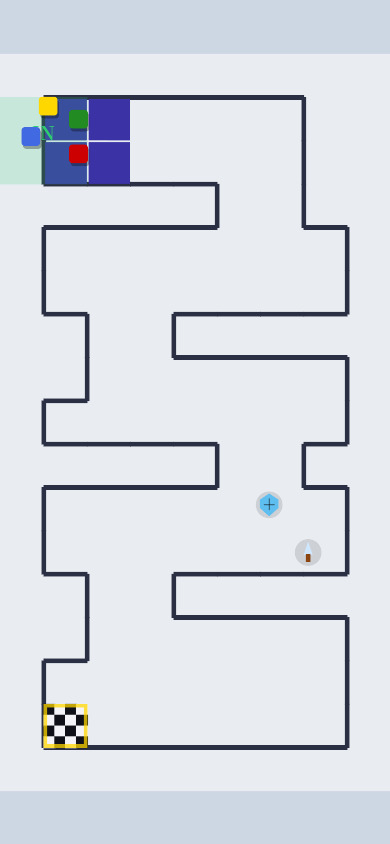
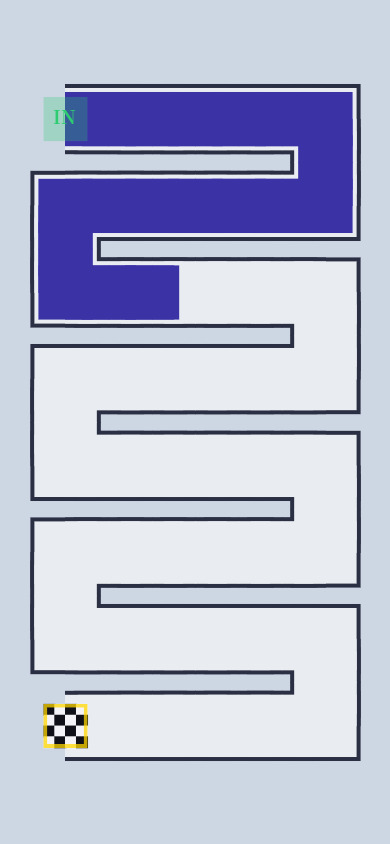
Render Stage 1 as a thick corridor with sharp corners and matching flood

diff --git a/www/game.js b/www/game.js
@@ -306,23 +306,23 @@
     // PERFECT SQUARES (size = screenWidth/9) and the maze is taller now so it
     // fills most of the portrait screen; any leftover space is the centered,
     // background-colored letterbox. All 5 are validated single-path (S->E).
-    // 1 — thicker lanes with 2x2 turn connectors and no brick gates for now (9x17)
+    // 1 — horizontal serpentine (9x17)
     [
       '#########',
-      '#S.....##',
-      '#......##',
-      '#####..##',
+      '#S......#',
+      '#######.#',
       '#.......#',
+      '#.#######',
       '#.......#',
-      '##..#####',
-      '##......#',
+      '#######.#',
       '#.......#',
-      '#####..##',
+      '#.#######',
       '#.......#',
+      '#######.#',
       '#.......#',
-      '##..#####',
-      '##......#',
+      '#.#######',
       '#.......#',
+      '#######.#',
       '#E......#',
       '#########'
     ],
@@ -611,7 +611,6 @@
 
   function resetBricks() {
     BRICKS = [];
-    if (STATE.stageIndex === 0) return; // Stage 1: remove brick gates for now
     const path = MAZE.path;
     if (!path || path.length < 8) return;
     // Place bricks on interior path cells, evenly spaced, skipping cells near
@@ -697,7 +696,6 @@
         const nextAhead = MAZE.path[Math.min(aheadIdx + 1, MAZE.path.length - 1)];
         const ctr = cellCenter(ahead.c, ahead.r);
         sq.x = ctr.x; sq.y = ctr.y;
-        snapSquareToLaneBand(sq);
         // Re-aim along the corridor's forward direction but KEEP it a billiard
         // diagonal so it still bounces naturally (this is the wall shoving it,
         // not pathfinding — it only happens when the wall reaches the square).
@@ -715,15 +713,50 @@
 
   function drawFlood() {
     if (!MAZE.path.length) return;
+    const t = Date.now();
+
+    if (STATE.stageIndex === 0) {
+      const pts = stage1PathPoints();
+      if (!pts || pts.length < 2) return;
+      const laneW = MAZE.cellH * 1.42;
+      const floodW = Math.max(1, laneW - WALL_THICKNESS * 2);
+      const frac = FLOOD.progress - Math.floor(FLOOD.progress);
+      const upto = Math.min(MAZE.path.length - 1, FLOOD.front);
+      const segPts = [];
+      for (let i = 0; i <= upto; i++) segPts.push(pts[i]);
+      if (FLOOD.front < MAZE.path.length && pts[FLOOD.front]) {
+        const a = pts[FLOOD.front];
+        const b = pts[Math.min(FLOOD.front + 1, pts.length - 1)];
+        if (a && b) segPts.push({ x: a.x + (b.x - a.x) * frac, y: a.y + (b.y - a.y) * frac });
+      }
+      if (segPts.length >= 2) {
+        ctx.save();
+        ctx.lineCap = 'butt';
+        ctx.lineJoin = 'miter';
+        ctx.miterLimit = 2;
+        ctx.strokeStyle = FLOOD_COLOR;
+        ctx.lineWidth = floodW;
+        ctx.beginPath();
+        ctx.moveTo(segPts[0].x, segPts[0].y);
+        for (let i = 1; i < segPts.length; i++) ctx.lineTo(segPts[i].x, segPts[i].y);
+        ctx.stroke();
+
+        const pulse = 0.55 + 0.45 * Math.sin(t / 220);
+        const tail = segPts[segPts.length - 1];
+        ctx.globalCompositeOperation = 'lighter';
+        ctx.fillStyle = `rgba(140,130,255,${0.16 + 0.16 * pulse})`;
+        ctx.fillRect(tail.x - floodW * 0.18, tail.y - floodW * 0.18, floodW * 0.36, floodW * 0.36);
+        ctx.restore();
+      }
+      return;
+    }
+
     const w = MAZE.cellW, h = MAZE.cellH;
     const ox = MAZE.offX, oy = MAZE.offY;
-    const t = Date.now();
     const inset = WALL_THICKNESS * 0.5;
     const fw = Math.max(1, w - WALL_THICKNESS);
     const fh = Math.max(1, h - WALL_THICKNESS);
 
-    // One continuous solid strip inset inside the corridor so the maze outline
-    // remains visible and no internal cell separators appear inside the flood.
     ctx.fillStyle = FLOOD_COLOR;
     for (let i = 0; i < FLOOD.front; i++) {
       const cell = MAZE.path[i];
@@ -762,32 +795,6 @@
   // Visual-effect tuning.
   const SHIELD_FLASH_TIME = 0.5; // seconds for the blue shield ripple
 
-
-  function laneBandRows(r) {
-    if (STATE.stageIndex !== 0) return [r];
-    const grid = MAZE.grid || [];
-    if (r < 0 || r >= MAZE.rows) return [r];
-    if (!grid[r] || !grid[r].includes('.')) return [r];
-    const rows = [r];
-    if (r > 0 && grid[r - 1] && grid[r - 1].includes('.')) rows.push(r - 1);
-    if (r + 1 < MAZE.rows && grid[r + 1] && grid[r + 1].includes('.')) rows.push(r + 1);
-    return Array.from(new Set(rows)).sort((a, b) => a - b);
-  }
-
-  function laneBandCenterY(r) {
-    const rows = laneBandRows(r);
-    const ys = rows.map(rr => MAZE.offY + rr * MAZE.cellH + MAZE.cellH / 2);
-    return ys.reduce((a, b) => a + b, 0) / ys.length;
-  }
-
-  function snapSquareToLaneBand(sq) {
-    if (STATE.stageIndex !== 0) return;
-    const c = Math.floor((sq.x - MAZE.offX) / MAZE.cellW);
-    const r = Math.max(0, Math.min(MAZE.rows - 1, Math.floor((sq.y - MAZE.offY) / MAZE.cellH)));
-    if (r < 0 || r >= MAZE.rows || c < 0 || c >= MAZE.cols) return;
-    if (MAZE.grid[r][c] === '#') return;
-    sq.y = laneBandCenterY(r);
-  }
 
   /* =========================================================
    * PARTICLES (death explosion fragments)
@@ -912,7 +919,6 @@
       sq.y = Math.max(SQUARE_SIZE, Math.min(view.h - SQUARE_SIZE, sq.y));
       sq.vx = launch.x * sq.speed;
       sq.vy = launch.y * sq.speed;
-      snapSquareToLaneBand(sq);
       return sq;
     });
   }
@@ -944,7 +950,6 @@
       if (sq.finished) continue;
 
       moveAndBounce(sq, dt);
-      snapSquareToLaneBand(sq);
       // No self-rotation: squares do not spin on themselves. They move straight
       // and only change direction by reflecting off walls (handled above).
 
@@ -1311,6 +1316,47 @@
   /* =========================================================
    * MAZE RENDERING (fills the whole screen)
    * ========================================================= */
+
+
+  function stage1PathPoints() {
+    if (STATE.stageIndex !== 0 || !MAZE.path || !MAZE.path.length) return null;
+    return MAZE.path.map(cell => ({
+      x: MAZE.offX + cell.c * MAZE.cellW + MAZE.cellW / 2,
+      y: MAZE.offY + cell.r * MAZE.cellH + MAZE.cellH / 2
+    }));
+  }
+
+  function drawStage1VisualMaze(ctx) {
+    const pts = stage1PathPoints();
+    if (!pts || pts.length < 2) return false;
+    const laneW = MAZE.cellH * 1.42;
+    const border = WALL_THICKNESS;
+
+    ctx.save();
+    ctx.lineCap = 'butt';
+    ctx.lineJoin = 'miter';
+    ctx.miterLimit = 2;
+
+    // Outer dark border stroke
+    ctx.strokeStyle = WALL_COLOR;
+    ctx.lineWidth = laneW + border * 2;
+    ctx.beginPath();
+    ctx.moveTo(pts[0].x, pts[0].y);
+    for (let i = 1; i < pts.length; i++) ctx.lineTo(pts[i].x, pts[i].y);
+    ctx.stroke();
+
+    // Inner floor stroke
+    ctx.strokeStyle = FLOOR_COLOR;
+    ctx.lineWidth = laneW;
+    ctx.beginPath();
+    ctx.moveTo(pts[0].x, pts[0].y);
+    for (let i = 1; i < pts.length; i++) ctx.lineTo(pts[i].x, pts[i].y);
+    ctx.stroke();
+
+    ctx.restore();
+    return true;
+  }
+
   function drawMaze() {
     // 1) BACKGROUND: one solid flat color over the whole screen (this also fills
     //    the empty letterbox space above/below the centered square-cell maze).
@@ -1319,27 +1365,27 @@
 
     const mazeW = MAZE.cellW * MAZE.cols, mazeH = MAZE.cellH * MAZE.rows;
 
-    // 2) FLOOR: one solid flat color, covering ONLY the maze area. No checker,
-    //    no grid, no cell lines.
-    ctx.fillStyle = FLOOR_COLOR;
-    ctx.fillRect(MAZE.offX, MAZE.offY, mazeW, mazeH);
-
-    // 3) WALLS: draw ONLY thin outline segments around OPEN corridor cells.
-    //    This makes the maze read as mostly open floor with dark separators,
-    //    instead of visually suggesting that wall cells are filled blocks.
-    const T = 4;
-    const inset = T / 2;
-    const ox = MAZE.offX, oy = MAZE.offY, cw = MAZE.cellW, ch = MAZE.cellH;
-    const isOpenCell = (c, r) => r >= 0 && c >= 0 && r < MAZE.rows && c < MAZE.cols && MAZE.grid[r][c] !== '#';
-    ctx.fillStyle = WALL_COLOR;
-    for (let r = 0; r < MAZE.rows; r++) {
-      for (let c = 0; c < MAZE.cols; c++) {
-        if (!isOpenCell(c, r)) continue;
-        const x = ox + c * cw, y = oy + r * ch;
-        if (!isOpenCell(c, r - 1)) ctx.fillRect(x, y - inset, cw, T);
-        if (!isOpenCell(c, r + 1)) ctx.fillRect(x, y + ch - inset, cw, T);
-        if (!isOpenCell(c - 1, r)) ctx.fillRect(x - inset, y, T, ch);
-        if (!isOpenCell(c + 1, r)) ctx.fillRect(x + cw - inset, y, T, ch);
+    // 2) FLOOR + WALLS. Stage 1 uses a dedicated visual geometry layer
+    //    built from merged corridor bands; other stages keep the normal cell
+    //    rendering. Gameplay/path logic stays unchanged.
+    const stage1Custom = drawStage1VisualMaze(ctx);
+    if (!stage1Custom) {
+      ctx.fillStyle = FLOOR_COLOR;
+      ctx.fillRect(MAZE.offX, MAZE.offY, mazeW, mazeH);
+      const T = 4;
+      const inset = T / 2;
+      const ox = MAZE.offX, oy = MAZE.offY, cw = MAZE.cellW, ch = MAZE.cellH;
+      const isOpenCell = (c, r) => r >= 0 && c >= 0 && r < MAZE.rows && c < MAZE.cols && MAZE.grid[r][c] !== '#';
+      ctx.fillStyle = WALL_COLOR;
+      for (let r = 0; r < MAZE.rows; r++) {
+        for (let c = 0; c < MAZE.cols; c++) {
+          if (!isOpenCell(c, r)) continue;
+          const x = ox + c * cw, y = oy + r * ch;
+          if (!isOpenCell(c, r - 1)) ctx.fillRect(x, y - inset, cw, T);
+          if (!isOpenCell(c, r + 1)) ctx.fillRect(x, y + ch - inset, cw, T);
+          if (!isOpenCell(c - 1, r)) ctx.fillRect(x - inset, y, T, ch);
+          if (!isOpenCell(c + 1, r)) ctx.fillRect(x + cw - inset, y, T, ch);
+        }
       }
     }
 

diff --git a/NOTES.md b/NOTES.md
@@ -442,3 +442,19 @@ corridor floor, smaller solid squares.
 - Stage 1 refinement: brick gates are temporarily disabled for Stage 1 only, per user request.
 
 - Stage 1 behavior fix: stacked 2-row corridor bands are now treated as one fused movement lane for square positioning, so squares and the flood no longer get trapped cycling inside the upper/lower half of a thicker lane.
+
+- Reworked Stage 1 safely: restored single-row corridor logic for movement/flood, then thickened lanes in rendering only by visually enlarging open floor bands and shrinking apparent gaps between them.
+
+- Stage 1 visual thickening refined: horizontal corridor runs are now rendered as merged thick bands rather than thickened per-cell outlines, removing duplicate inner wall lines while keeping the single-path logic intact.
+
+- Stage 1 renderer switched to custom merged lane shapes: straight runs and turns are outlined as single thick corridor shapes instead of stitched from per-cell border fragments.
+
+- Reset to stable Stage 1 logic/rendering, then applied one minimal visual-only change: Stage 1 corridor floor bands are slightly overpainted above/below open rows to reduce the apparent dark separator gap without altering movement, flood, or path logic.
+
+- Added a Stage 1 visual-geometry layer: merged thick horizontal lane rectangles plus narrow vertical connector rectangles are now generated separately from gameplay logic so Stage 1 can be visually denser while keeping the stable one-cell path underneath.
+
+- Stage 1 visual architecture revised again: instead of stitched rectangles, the corridor is now rendered from the underlying Stage 1 path as one continuous thick stroked shape (outer wall stroke + inner floor stroke), while gameplay logic remains unchanged.
+
+- Stage 1 corridor corners changed from rounded joins to sharp 90° corners by using butt caps + miter joins in the continuous-path visual renderer.
+
+- Stage 1 flood renderer now follows the same continuous path geometry and fills the corridor width horizontally instead of drawing as separate cell blocks.